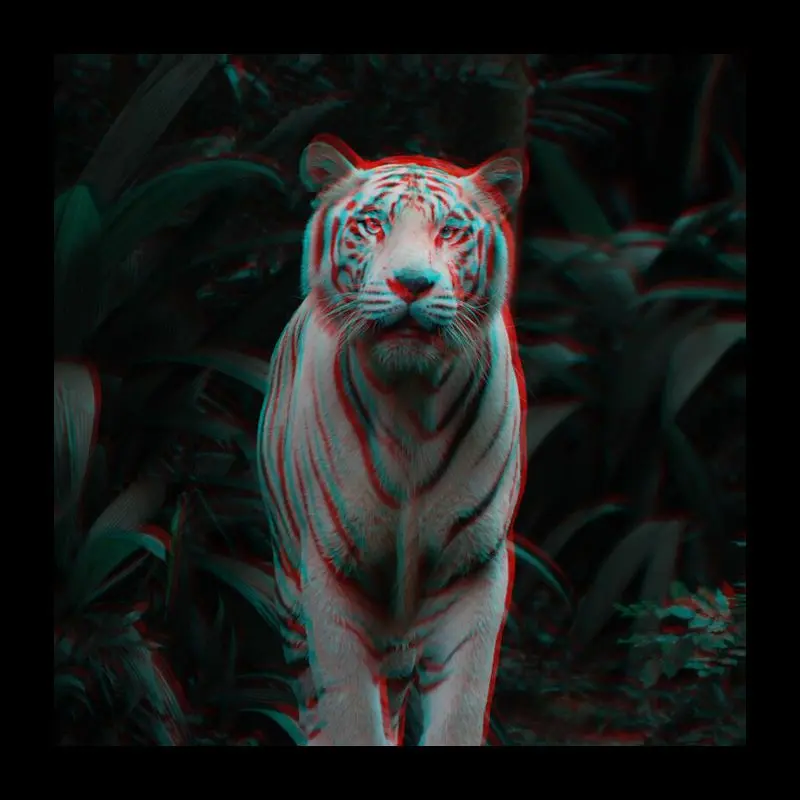
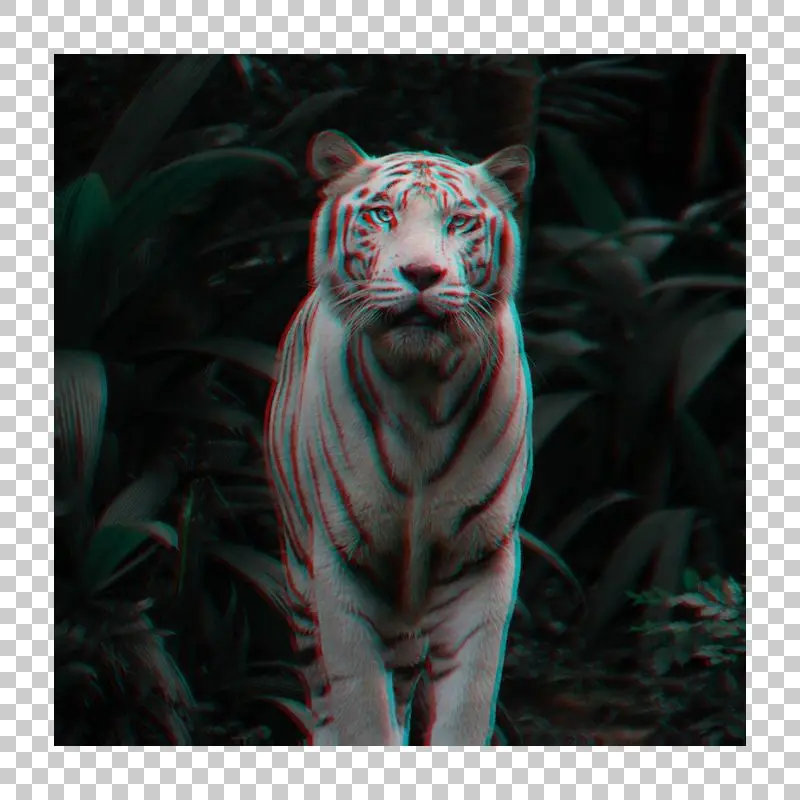
Update thumnails

diff --git a/src/assets/js/circle/index.ts b/src/assets/js/circle/index.ts
@@ -22,6 +22,7 @@ const init = () => {
   const material = new THREE.ShaderMaterial({
     vertexShader,
     fragmentShader,
+    transparent: true,
   });
 
   const mesh = new THREE.Mesh(geometry, material);
@@ -34,6 +35,7 @@ const init = () => {
   const renderer = new THREE.WebGLRenderer({
     canvas: canvas,
   });
+  renderer.setClearColor(0x000000, 0);
   renderer.setSize(width, height);
   renderer.setPixelRatio(window.devicePixelRatio);
 

diff --git a/src/assets/js/color-gradient/index.ts b/src/assets/js/color-gradient/index.ts
@@ -22,6 +22,7 @@ const init = () => {
   const material = new THREE.ShaderMaterial({
     vertexShader,
     fragmentShader,
+    transparent: true,
   });
 
   const mesh = new THREE.Mesh(geometry, material);
@@ -34,6 +35,7 @@ const init = () => {
   const renderer = new THREE.WebGLRenderer({
     canvas: canvas,
   });
+  renderer.setClearColor(0x000000, 0);
   renderer.setSize(width, height);
   renderer.setPixelRatio(window.devicePixelRatio);
 

diff --git a/src/assets/js/color-mix/index.ts b/src/assets/js/color-mix/index.ts
@@ -22,6 +22,7 @@ const init = () => {
   const material = new THREE.ShaderMaterial({
     vertexShader,
     fragmentShader,
+    transparent: true,
   });
 
   const mesh = new THREE.Mesh(geometry, material);
@@ -34,6 +35,7 @@ const init = () => {
   const renderer = new THREE.WebGLRenderer({
     canvas: canvas,
   });
+  renderer.setClearColor(0x000000, 0);
   renderer.setSize(width, height);
   renderer.setPixelRatio(window.devicePixelRatio);
 

diff --git a/src/assets/js/fill/index.ts b/src/assets/js/fill/index.ts
@@ -22,6 +22,7 @@ const init = () => {
   const material = new THREE.ShaderMaterial({
     vertexShader,
     fragmentShader,
+    transparent: true,
   });
 
   const mesh = new THREE.Mesh(geometry, material);
@@ -34,6 +35,7 @@ const init = () => {
   const renderer = new THREE.WebGLRenderer({
     canvas: canvas,
   });
+  renderer.setClearColor(0x000000, 0);
   renderer.setSize(width, height);
   renderer.setPixelRatio(window.devicePixelRatio);
 

diff --git a/src/assets/js/rectangle/index.ts b/src/assets/js/rectangle/index.ts
@@ -22,6 +22,7 @@ const init = () => {
   const material = new THREE.ShaderMaterial({
     vertexShader,
     fragmentShader,
+    transparent: true,
   });
 
   const mesh = new THREE.Mesh(geometry, material);
@@ -34,6 +35,7 @@ const init = () => {
   const renderer = new THREE.WebGLRenderer({
     canvas: canvas,
   });
+  renderer.setClearColor(0x000000, 0);
   renderer.setSize(width, height);
   renderer.setPixelRatio(window.devicePixelRatio);
 

diff --git a/src/assets/js/split/index.ts b/src/assets/js/split/index.ts
@@ -22,6 +22,7 @@ const init = () => {
   const material = new THREE.ShaderMaterial({
     vertexShader,
     fragmentShader,
+    transparent: true,
   });
 
   const mesh = new THREE.Mesh(geometry, material);
@@ -34,6 +35,7 @@ const init = () => {
   const renderer = new THREE.WebGLRenderer({
     canvas: canvas,
   });
+  renderer.setClearColor(0x000000, 0);
   renderer.setSize(width, height);
   renderer.setPixelRatio(window.devicePixelRatio);
 

diff --git a/src/assets/js/image-mix/index.ts b/src/assets/js/image-mix/index.ts
@@ -33,6 +33,7 @@ const init = () => {
       uTexture02: { value: texture02 },
       uTime: { value: 0 },
     },
+    transparent: true,
   });
 
   const mesh = new THREE.Mesh(geometry, material);
@@ -45,6 +46,7 @@ const init = () => {
   const renderer = new THREE.WebGLRenderer({
     canvas: canvas,
   });
+  renderer.setClearColor(0x000000, 0);
   renderer.setSize(width, height);
   renderer.setPixelRatio(window.devicePixelRatio);
 

diff --git a/src/assets/js/color-shift/index.ts b/src/assets/js/color-shift/index.ts
@@ -30,6 +30,7 @@ const init = () => {
       uTexture: { value: texture },
       uTime: { value: 0 },
     },
+    transparent: true,
   });
 
   const mesh = new THREE.Mesh(geometry, material);
@@ -42,6 +43,7 @@ const init = () => {
   const renderer = new THREE.WebGLRenderer({
     canvas: canvas,
   });
+  renderer.setClearColor(0x000000, 0);
   renderer.setSize(width, height);
   renderer.setPixelRatio(window.devicePixelRatio);
 

diff --git a/src/assets/js/cos-wave/index.ts b/src/assets/js/cos-wave/index.ts
@@ -23,6 +23,7 @@ const init = () => {
     vertexShader,
     fragmentShader,
     wireframe: true,
+    transparent: true,
   });
 
   const mesh = new THREE.Mesh(geometry, material);
@@ -35,6 +36,7 @@ const init = () => {
   const renderer = new THREE.WebGLRenderer({
     canvas: canvas,
   });
+  renderer.setClearColor(0x000000, 0);
   renderer.setSize(width, height);
   renderer.setPixelRatio(window.devicePixelRatio);
 

diff --git a/src/assets/js/sin-wave/index.ts b/src/assets/js/sin-wave/index.ts
@@ -23,6 +23,7 @@ const init = () => {
     vertexShader,
     fragmentShader,
     wireframe: true,
+    transparent: true,
   });
 
   const mesh = new THREE.Mesh(geometry, material);
@@ -35,6 +36,7 @@ const init = () => {
   const renderer = new THREE.WebGLRenderer({
     canvas: canvas,
   });
+  renderer.setClearColor(0x000000, 0);
   renderer.setSize(width, height);
   renderer.setPixelRatio(window.devicePixelRatio);
 

diff --git a/src/assets/js/texture/index.ts b/src/assets/js/texture/index.ts
@@ -29,6 +29,7 @@ const init = () => {
     uniforms: {
       uTexture: { value: texture },
     },
+    transparent: true,
   });
 
   const mesh = new THREE.Mesh(geometry, material);
@@ -41,6 +42,7 @@ const init = () => {
   const renderer = new THREE.WebGLRenderer({
     canvas: canvas,
   });
+  renderer.setClearColor(0x000000, 0);
   renderer.setSize(width, height);
   renderer.setPixelRatio(window.devicePixelRatio);
 

diff --git a/src/assets/js/time/index.ts b/src/assets/js/time/index.ts
@@ -25,6 +25,7 @@ const init = () => {
     uniforms: {
       uTick: { value: 0 },
     },
+    transparent: true,
   });
 
   const mesh = new THREE.Mesh(geometry, material);
@@ -37,6 +38,7 @@ const init = () => {
   const renderer = new THREE.WebGLRenderer({
     canvas: canvas,
   });
+  renderer.setClearColor(0x000000, 0);
   renderer.setSize(width, height);
   renderer.setPixelRatio(window.devicePixelRatio);
 
